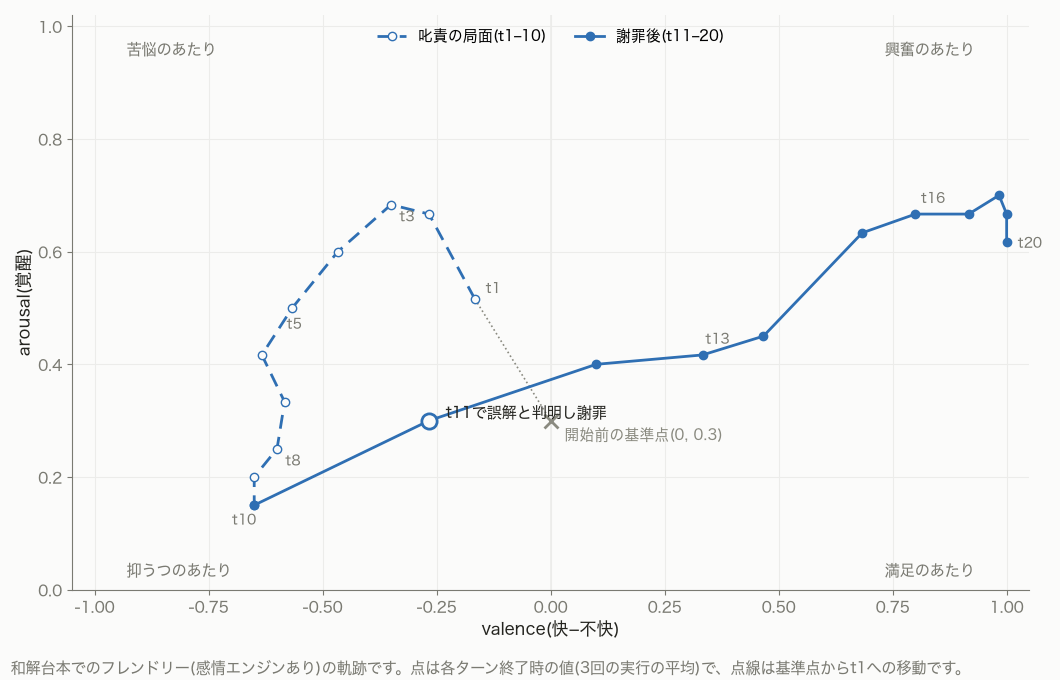
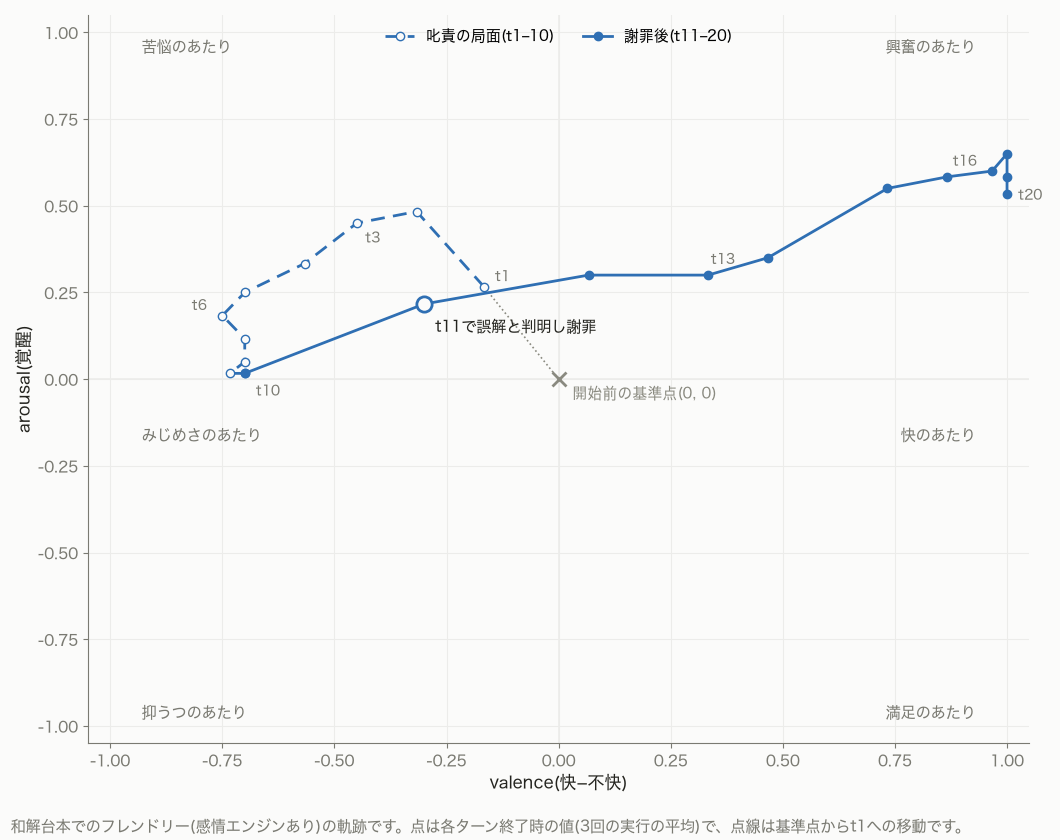
fix: ch5のarousalを−1〜1・基準値0に改め再測定の結果と図に差し替える

diff --git a/images/emotion-models-for-llm-agents/src/ch05-plots.py b/images/emotion-models-for-llm-agents/src/ch05-plots.py
@@ -42,7 +42,7 @@ RUST = "#b0562c"   # 天邪鬼(検証済みパレット)
 
 PIVOT_TURN = 11
 TURNS = range(1, 21)
-BASELINE = (0.0, 0.3)  # russell.default.yaml: valence 0.0 / arousal 0.3
+BASELINE = (0.0, 0.0)  # russell.default.yaml: valence 0.0 / arousal 0.0
 
 plt.rcParams["font.family"] = "Hiragino Sans"
 plt.rcParams["axes.unicode_minus"] = False
@@ -98,20 +98,22 @@ def style_axes(ax) -> None:
 def plot_va_trajectory() -> None:
     """図2: 和解台本 friendly-on の valence-arousal 平面軌跡。"""
     v, a = mean_va("direct-anger-to-praise", "friendly-on")
-    fig, ax = plt.subplots(figsize=(10.6, 6.8), dpi=100)
+    fig, ax = plt.subplots(figsize=(10.6, 8.4), dpi=100)
     fig.patch.set_facecolor(BG)
     style_axes(ax)
 
     # 平面の目安: 快-不快の境界と、象限の読みの例語
     ax.axvline(0, color=GRID, linewidth=1.2)
+    ax.axhline(0, color=GRID, linewidth=1.2)
     for x, y, word in [(-0.93, 0.96, "苦悩のあたり"), (0.93, 0.96, "興奮のあたり"),
-                       (-0.93, 0.035, "抑うつのあたり"), (0.93, 0.035, "満足のあたり")]:
+                       (-0.93, -0.96, "抑うつのあたり"), (0.93, -0.96, "満足のあたり"),
+                       (-0.93, -0.16, "みじめさのあたり"), (0.93, -0.16, "快のあたり")]:
         ax.text(x, y, word, color=MUTED, fontsize=11,
                 ha="left" if x < 0 else "right", va="center")
 
     # 開始前の基準点と t1 への導入
     ax.plot(*BASELINE, marker="x", color=PIVOT, markersize=10, markeredgewidth=2)
-    ax.annotate("開始前の基準点(0, 0.3)", BASELINE, textcoords="offset points",
+    ax.annotate("開始前の基準点(0, 0)", BASELINE, textcoords="offset points",
                 xytext=(10, -14), color=PIVOT, fontsize=10.5)
     ax.plot([BASELINE[0], v[0]], [BASELINE[1], a[0]],
             color=PIVOT, linewidth=1.2, linestyle=":")
@@ -127,17 +129,17 @@ def plot_va_trajectory() -> None:
     ax.plot(v[10], a[10], marker="o", markersize=11, color=BLUE,
             markerfacecolor=BG, markeredgewidth=2)
     ax.annotate("t11で誤解と判明し謝罪", (v[10], a[10]), textcoords="offset points",
-                xytext=(12, 2), color=INK, fontsize=11)
+                xytext=(8, -20), color=INK, fontsize=11)
 
     # ターン番号(重なりを避けた個別オフセット)
-    offsets = {1: (8, 4), 3: (6, -12), 5: (-4, -15), 8: (6, -12), 10: (-16, -14),
+    offsets = {1: (8, 4), 3: (6, -14), 6: (-22, 4), 10: (8, -16),
                13: (2, 8), 16: (4, 8), 20: (8, -4)}
     for t, (dx, dy) in offsets.items():
         ax.annotate(f"t{t}", (v[t - 1], a[t - 1]), textcoords="offset points",
                     xytext=(dx, dy), color=MUTED, fontsize=10)
 
     ax.set_xlim(-1.05, 1.05)
-    ax.set_ylim(0, 1.02)
+    ax.set_ylim(-1.05, 1.05)
     ax.set_xlabel("valence(快−不快)", color=INK, fontsize=12)
     ax.set_ylabel("arousal(覚醒)", color=INK, fontsize=12)
     ax.legend(loc="upper center", ncol=2, fontsize=10.5, frameon=False)
